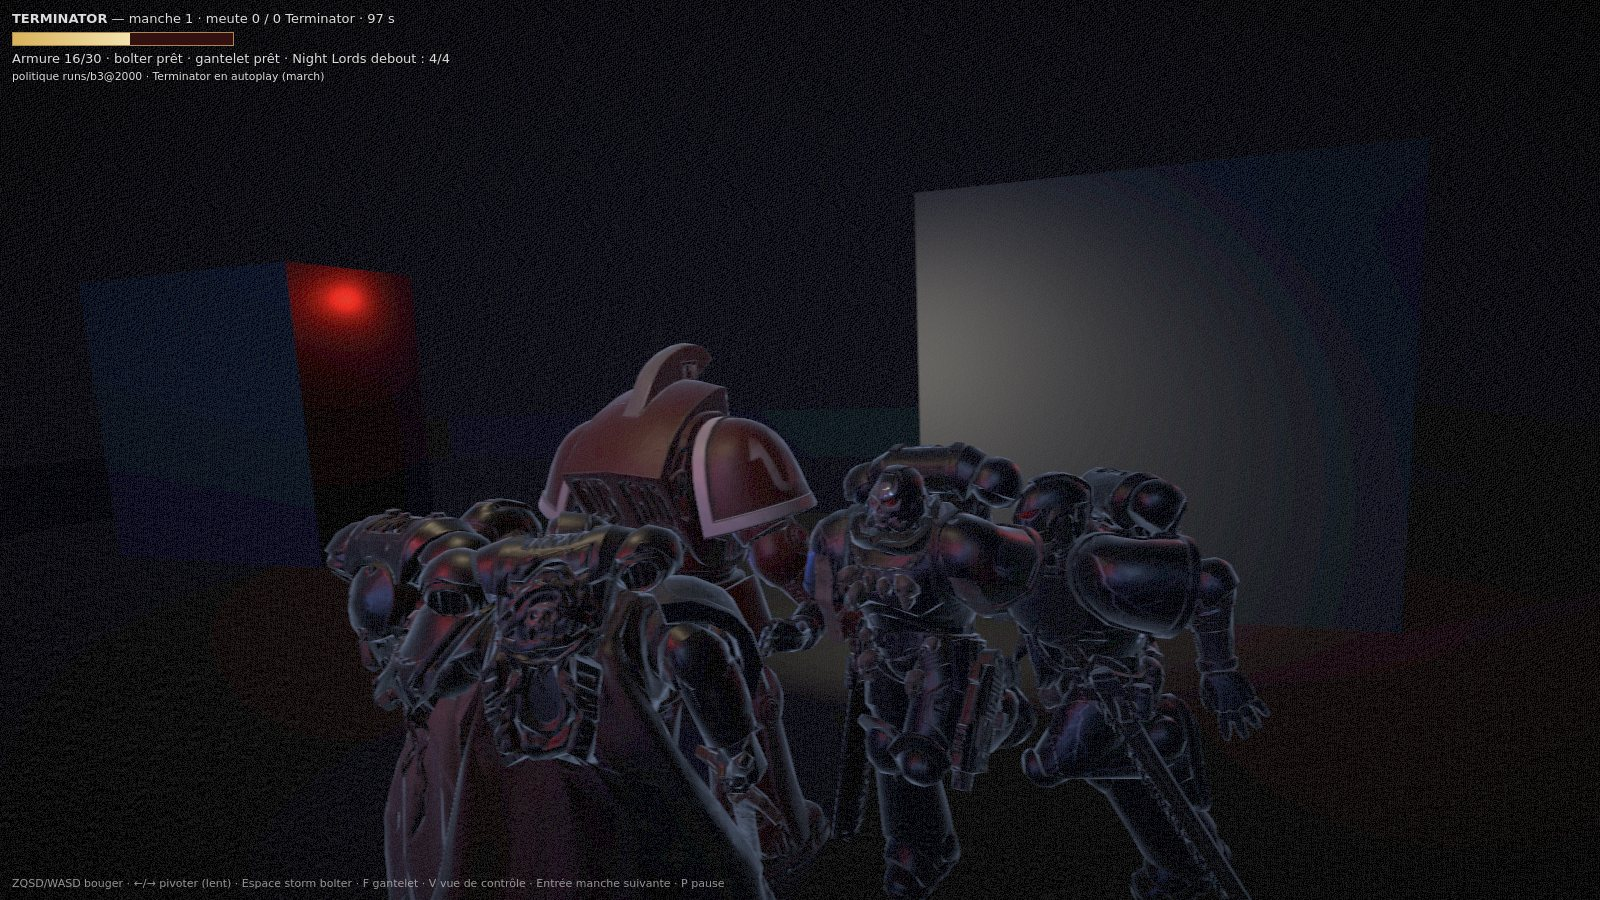
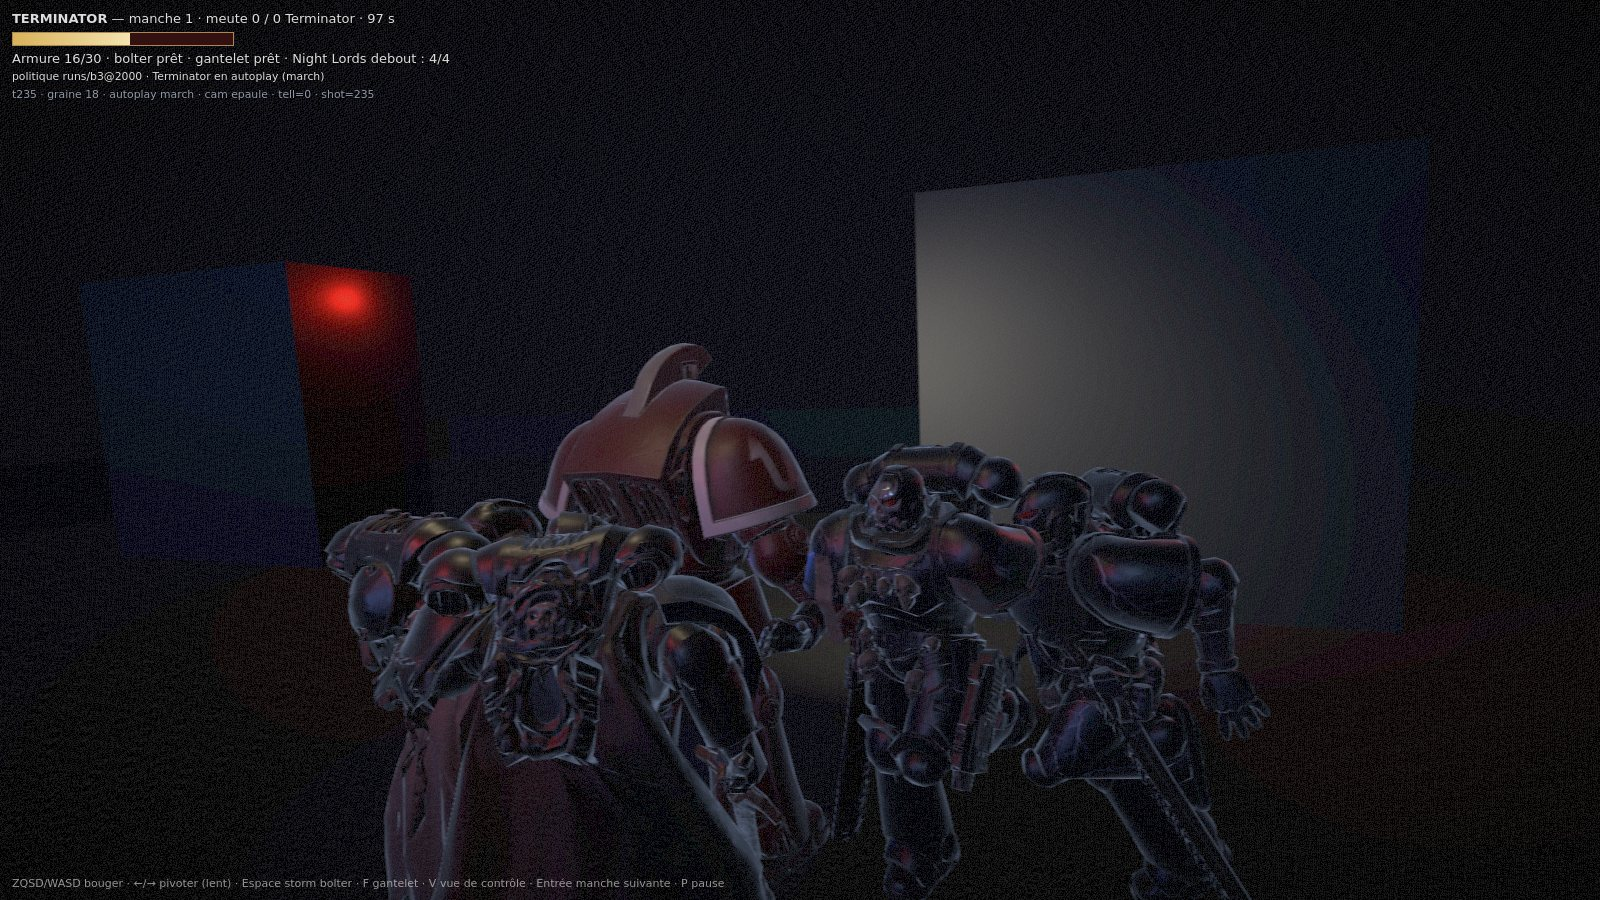
Harnais : le tick, la graine et le mode sont brûlés dans l'image
Une capture dont le tick n'est pas lisible est une affirmation
invérifiable — le même défaut qu'un chiffre sans SHA. La dernière ligne
du HUD écrit t235 · graine 18 · autoplay march · cam epaule · shot=235,
et seulement les drapeaux qui s'écartent du défaut (tell=0, impact=0,
demo).

Ça a servi tout de suite : la planche du télégraphe annonçait « graine
17 » alors que la graine jouée était 18, parce que startRound() incrémente
celle de l'URL. Personne ne l'avait vu en relisant le document.

Les deux planches sont refaites avec ce HUD, et leurs mesures passent au
seuil que le grain ne franchit jamais (> 8/255) : 0,0 % des blocs pour le
grain sur deux répétitions, 3,0-3,5 % pour le télégraphe, 7,4 % pour le
flash. La colonne « max » reste affichée à côté du grain, pour qu'on voie
qu'elle ne sépare rien.

diff --git a/shots/demo2/planche.html b/shots/demo2/planche.html
@@ -1,33 +1,33 @@
 <!doctype html><meta charset="utf-8"><style>
- body{background:#0a0b0f;color:#c9cdd6;font:13.5px/1.5 ui-sans-serif,system-ui;margin:0;padding:20px 24px;width:1760px}
- h1{font:600 17px/1.3 ui-sans-serif;margin:0 0 4px;color:#e8ebf2}
- p.s{margin:0 0 4px;font-size:12.5px;color:#8b93a3}
+ body{background:#0a0b0f;color:#c9cdd6;font:13px/1.5 ui-sans-serif,system-ui;margin:0;padding:18px 22px;width:1780px}
+ h1{font:600 16px/1.3 ui-sans-serif;margin:0 0 4px;color:#e8ebf2}
+ p.s{margin:0 0 3px;font-size:12px;color:#8b93a3}
  .warn{color:#ffb020;font-weight:600}
- .row{display:flex;gap:10px;margin-top:14px}
+ .row{display:flex;gap:9px;margin-top:12px}
  figure{flex:1;margin:0}
  img{width:100%;display:block;border:1px solid #1e2230}
- figcaption{margin-top:6px;font-size:12px;color:#9aa3b4;min-height:52px}
+ figcaption{margin-top:5px;font-size:11.5px;color:#9aa3b4;min-height:56px}
  b{color:#e8ebf2;font-weight:600}
  .k{color:#8bd4a0}
- table{border-collapse:collapse;margin-top:16px;font-size:12px;width:100%}
- td,th{border-bottom:1px solid #1b1f2b;padding:5px 8px;text-align:left}
+ table{border-collapse:collapse;margin-top:14px;font-size:11.5px;width:100%}
+ td,th{border-bottom:1px solid #1b1f2b;padding:4px 7px;text-align:left}
  th{color:#7d8698;font-weight:500}
  td.n{text-align:right;font-variant-numeric:tabular-nums}
  code{color:#9fb0c8}
 </style>
 <h1>Mode démo <code>?demo=reveal</code> — le flash et le télégraphe sur la même image</h1>
-<p class="s"><span class="warn">MISE EN SCÈNE</span> — ce n'est pas une manche jouée, le HUD le dit dans l'image. <code>?shot=14</code>, aucun aléa : mêmes entrées, même image, pas de graine à chercher.</p>
-<p class="s">Le frère du flanc arme sa griffe au tick 13 (<code>armTicks = 2</code>, décidé par la simulation), la rafale part au même tick : à l'image, <code>armTicks = 1</code> et le flash est à 75 % de sa course.</p>
+<p class="s"><span class="warn">MISE EN SCÈNE</span> — ce n'est pas une manche jouée, le HUD le dit dans l'image. <code>?shot=14</code>, aucun aléa : mêmes entrées, même image, pas de graine à chercher. Tick, graine et mode brûlés dans l'image.</p>
+<p class="s">Le frère du flanc arme sa griffe au tick 13 (<code>armTicks = 2</code>, décidé par la simulation), la rafale part au même tick : à l'image <code>armTicks = 1</code> et le flash est à 75 % de sa course.</p>
 <div class="row">
  <figure><img src="rien.jpg"><figcaption><b>Ni flash, ni télégraphe</b> — <code>?tell=0&amp;impact=0</code>. Deux masses noires au contact, la salle est un trou.</figcaption></figure>
- <figure><img src="flash-seul.jpg"><figcaption><b>Flash seul</b> — <code>?tell=0</code>. La rafale peint la salle : sol, pilier, dos du Terminator. 30,1 % des blocs changent, max +70,8/255.</figcaption></figure>
- <figure><img src="tell-seul.jpg"><figcaption><b>Télégraphe seul</b> — <code>?impact=0</code>. Le liseré cerné de rouge : le coup tombe dans 200 ms. 12,5 % des blocs, max +27,6.</figcaption></figure>
- <figure><img src="les-deux.jpg"><figcaption><b>Les deux</b> — la salle s'éclaire <i>et</i> la silhouette se lit <b>contre</b> elle : l'épaule droite au premier plan est cerclée de rouge et sculptée par la lumière de bouche.</figcaption></figure>
+ <figure><img src="flash-seul.jpg"><figcaption><b>Flash seul</b> — la rafale peint la salle : sol, pilier, dos du Terminator.</figcaption></figure>
+ <figure><img src="tell-seul.jpg"><figcaption><b>Télégraphe seul</b> — le liseré cerné de rouge : le coup tombe dans 200 ms.</figcaption></figure>
+ <figure><img src="les-deux.jpg"><figcaption><b>Les deux</b> — la salle s'éclaire <i>et</i> la silhouette se lit <b>contre</b> elle : l'épaule au premier plan est cerclée et sculptée.</figcaption></figure>
 </div>
 <table>
- <tr><th>mesure (blocs de 8 px, image entière)</th><th>flash</th><th>télégraphe</th><th>bruit de grain (même URL deux fois)</th></tr>
- <tr><td>écart moyen</td><td class="n">1,90 /255</td><td class="n">0,63 /255</td><td class="n">0,00 /255</td></tr>
- <tr><td>écart maximal d'un bloc</td><td class="n k">+70,8</td><td class="n k">+27,6</td><td class="n">+6,4</td></tr>
- <tr><td>blocs au-dessus de 2/255</td><td class="n">30,1 %</td><td class="n">12,5 %</td><td class="n">5,5 %</td></tr>
+ <tr><th>blocs de 8 px, image entière</th><th class="n">écart moyen</th><th class="n">blocs &gt; 2</th><th class="n">blocs &gt; 8</th><th class="n">blocs &gt; 16</th><th class="n">max</th></tr>
+ <tr><td>flash</td><td class="n">1,92/255</td><td class="n">30,5 %</td><td class="n k">7,4 %</td><td class="n k">1,2 %</td><td class="n">+70,8</td></tr>
+ <tr><td>télégraphe</td><td class="n">0,63/255</td><td class="n">12,0 %</td><td class="n k">3,5 %</td><td class="n k">0,9 %</td><td class="n">+26,8</td></tr>
+ <tr><td>plancher de grain (même URL deux fois)</td><td class="n">0,00/255</td><td class="n">5,9–6,1 %</td><td class="n">0,0 %</td><td class="n">0,0 %</td><td class="n">+14,1 à +15,5</td></tr>
 </table>
-<p class="s" style="margin-top:10px;color:#7b8798">Les moyennes par région ne sont pas publiées ici : le grain d'une passe plein écran dépend de <code>performance.now()</code> et déplace une moyenne de région de ±1,5/255, soit l'ordre de grandeur du télégraphe. Seuils de blocs uniquement, et plancher de bruit mesuré à côté.</p>
+<p class="s" style="margin-top:9px;color:#7b8798">Le seuil qui compte est <b>&gt; 8</b> : le grain n'y passe jamais. La colonne « max » est là pour être lue à côté du grain — un maximum isolé n'est pas une mesure.</p>

diff --git a/shots/ev2/planche.html b/shots/ev2/planche.html
@@ -1,28 +1,33 @@
 <!doctype html><meta charset="utf-8">
 <style>
- body{background:#0a0b0f;color:#c9cdd6;font:14px/1.5 ui-sans-serif,system-ui;margin:0;padding:22px 26px}
- h1{font:600 17px/1.3 ui-sans-serif;margin:0 0 4px;color:#e8ebf2;letter-spacing:.02em}
- p.s{color:#8b93a3;margin:0 0 18px;font-size:12.5px}
- .row{display:flex;gap:14px}
+ body{background:#0a0b0f;color:#c9cdd6;font:13.5px/1.5 ui-sans-serif,system-ui;margin:0;padding:20px 24px;width:1760px}
+ h1{font:600 17px/1.3 ui-sans-serif;margin:0 0 5px;color:#e8ebf2}
+ p.s{margin:0 0 14px;font-size:12.5px;color:#8b93a3}
+ .row{display:flex;gap:10px}
  figure{flex:1;margin:0}
  img{width:100%;display:block;border:1px solid #1e2230}
- figcaption{margin-top:7px;font-size:12.5px;color:#9aa3b4}
- b{color:#ff4a3d;font-weight:600}
- table{border-collapse:collapse;margin:18px 0 0;font-size:12.5px;width:100%}
+ figcaption{margin-top:6px;font-size:12px;color:#9aa3b4}
+ b{color:#e8ebf2;font-weight:600}
+ .k{color:#8bd4a0}
+ table{border-collapse:collapse;margin-top:16px;font-size:12px;width:100%}
  td,th{border-bottom:1px solid #1b1f2b;padding:5px 8px;text-align:left}
  th{color:#7d8698;font-weight:500}
  td.n{text-align:right;font-variant-numeric:tabular-nums}
- .k{color:#8bd4a0}
+ code{color:#9fb0c8}
+ .note{margin-top:12px;font-size:12px;color:#7b8798}
+ .warn{color:#ffb020;font-weight:600}
 </style>
 <h1>Télégraphe de la griffe, branché sur l'armement de la simulation</h1>
-<p class="s">Graine 17, <code>?autoplay=march</code>, <b>tick 235</b> — Night Lord n°2 à <b>2,26 m</b>, <code>armTicks = 1</code>, deux autres au contact. Caméra à l'épaule. Capture réelle d'une manche jouée : aucune mise en scène.</p>
+<p class="s">Graine <b>18</b> (<code>?seed=17</code>, <code>startRound</code> incrémente), <code>?autoplay=march</code>, <b>tick 235</b> — Night Lord n°2 à <b>2,26 m</b>, <code>armTicks = 1</code>, deux autres au contact. Capture réelle : aucune mise en scène.</p>
+<p class="s">Le tick, la graine et le mode sont <b>brûlés dans l'image</b> (dernière ligne du HUD) : une planche se vérifie sans sa légende.</p>
 <div class="row">
- <figure><img src="off-t235.jpg"><figcaption><code>?tell=0</code> — sans télégraphe. Les trois assaillants sont des masses noires équivalentes.</figcaption></figure>
- <figure><img src="on-t235.jpg"><figcaption>Par défaut — le NL n°2 est cerclé de rouge : le coup tombe dans <b>200 ms</b>. Les deux autres, griffes en recharge, ne disent rien.</figcaption></figure>
+ <figure><img src="off-t235.jpg"><figcaption><b><code>?tell=0</code></b> — sans télégraphe. Les trois assaillants sont des masses noires équivalentes.</figcaption></figure>
+ <figure><img src="on-t235.jpg"><figcaption><b>Par défaut</b> — le NL n°2 est cerclé de rouge : le coup tombe dans <b>200 ms</b>. Les deux autres, griffes en recharge, ne disent rien.</figcaption></figure>
 </div>
 <table>
- <tr><th>mesure</th><th>blocs de 8 px, image entière</th><th>région du NL armé (x 1000–1280, y 430–790)</th></tr>
- <tr><td>écart moyen</td><td class="n">+0,59 /255</td><td class="n k">+4,2 /255</td></tr>
- <tr><td>écart maximal d'un bloc</td><td class="n">+25,2 /255</td><td class="n">max 116 → <span class="k">155</span></td></tr>
- <tr><td>blocs au-dessus de 2/255</td><td class="n">13,5 %</td><td class="n">—</td></tr>
+ <tr><th>blocs de 8 px, image entière</th><th class="n">écart moyen</th><th class="n">blocs &gt; 2</th><th class="n">blocs &gt; 8</th><th class="n">blocs &gt; 16</th><th class="n">max</th></tr>
+ <tr><td>télégraphe (ces deux images)</td><td class="n">+0,59/255</td><td class="n">14,4 %</td><td class="n k">3,0 %</td><td class="n k">0,4 %</td><td class="n">+24,6</td></tr>
+ <tr><td>plancher de grain (même URL deux fois)</td><td class="n">0,00/255</td><td class="n">5,9–6,1 %</td><td class="n">0,0 %</td><td class="n">0,0 %</td><td class="n">+14,1 à +15,5</td></tr>
 </table>
+<p class="note">Le seuil qui compte est <b>&gt; 8</b> : le grain n'y passe jamais, sur deux répétitions. La valeur maximale, elle, ne dit rien — la queue du grain monte à +15, et un maximum isolé n'est pas une mesure.</p>
+<p class="note warn">Correction : la première version de cette planche annonçait « graine 17 ». La graine réellement jouée est 18 — <code>startRound()</code> incrémente celle de l'URL. C'est le brûlage du tick dans l'image qui l'a révélé, pas une relecture.</p>

diff --git a/web/main.ts b/web/main.ts
@@ -432,10 +432,21 @@ async function endRound() {
 async function loadPolicy() {
   try { const j = await fetch('/policy/current.json', { cache: 'no-store' }).then(r => r.ok ? r.json() : null); if (j) { actor = j; policyLabel = `politique ${j.version}`; } } catch { /* naïve */ }
 }
+// Traçabilité brûlée dans l'image : un lecteur doit pouvoir dire, en regardant une capture, quel tick elle
+// montre, sur quelle graine et dans quel mode. Sans ça, chaque planche est une affirmation invérifiable — et
+// c'est le défaut qu'on reproche aux chiffres sans SHA. Seuls les drapeaux qui s'écartent du défaut sont écrits.
+function burnIn() {
+  const parts = [`t${w.tick}`, `graine ${seed}`, autoplay ? `autoplay ${autoplay}` : 'joueur', `cam ${CAM_MODE}`];
+  if (!TELL_ON) parts.push('tell=0');
+  if (!IMPACT) parts.push('impact=0');
+  if (DEMO_CFG) parts.push(`demo ${DEMO}`);
+  if (qs.get('shot')) parts.push(`shot=${qs.get('shot')}`);
+  return parts.join(' · ');
+}
 function hud() {
   const t = w.t; const h = document.getElementById('hud')!;
   h.innerHTML = `${DEMO_CFG ? '<b style="color:#ffb020">MISE EN SCÈNE</b> — ce n\'est pas une manche jouée · ' : ''}<b>TERMINATOR</b> — manche ${roundNo} · meute ${score.pack} / ${score.term} Terminator · ${((MAX_TICKS - w.tick) * DT).toFixed(0)} s<div class="bar"><i style="width:${t.hp / T_CFG.hp * 100}%"></i></div>`
-    + `${t.channel ? `<b style="color:#6f6">Téléportation ${Math.round(t.channel / T_CFG.channel * 100)} %</b> · ` : ''}Armure ${t.hp}/${T_CFG.hp} · bolter ${t.boltCd ? '…' : 'prêt'} · gantelet ${t.fistCd ? '…' : 'prêt'} · Night Lords debout : ${w.nls.filter(n => n.alive).length}/4<br><small>${policyLabel}${autoplay ? ` · Terminator en autoplay (${autoplay})` : ''}</small>`;
+    + `${t.channel ? `<b style="color:#6f6">Téléportation ${Math.round(t.channel / T_CFG.channel * 100)} %</b> · ` : ''}Armure ${t.hp}/${T_CFG.hp} · bolter ${t.boltCd ? '…' : 'prêt'} · gantelet ${t.fistCd ? '…' : 'prêt'} · Night Lords debout : ${w.nls.filter(n => n.alive).length}/4<br><small>${policyLabel}${autoplay ? ` · Terminator en autoplay (${autoplay})` : ''}</small><br><small style="color:#8f98a8">${burnIn()}</small>`;
   const d = document.getElementById('dbg')!; d.style.display = debug ? 'block' : 'none';
   if (debug) d.innerHTML = `<b>Vue de contrôle — ce que perçoit chaque Night Lord</b><table><tr><th>rôle</th><th>état</th><th>voit</th><th>entend</th><th>vox</th><th>âge</th><th>action (p)</th></tr>`
     + w.nls.map((n, i) => `<tr style="color:${ROLE_CSS[i]}"><td>${ROLES[i]}</td><td>${n.alive ? 'debout' : 'mort'}</td><td>${n.alive && n.belief.seen ? '●' : '·'}</td><td>${n.alive && n.belief.heard ? '●' : '·'}</td><td>${n.alive && n.belief.vox ? '●' : '·'}</td><td>${n.alive && n.belief.valid ? (n.belief.age * DT).toFixed(1) + ' s' : '—'}</td><td>${n.alive ? NL_ACTIONS[lastActs[i]] + (actor ? ` (${lastP[i].toFixed(2)})` : '') : ''}</td></tr>`).join('')

diff --git a/web/models/MANIFESTE.md b/web/models/MANIFESTE.md
@@ -198,6 +198,21 @@ simulation) et la rafale part au même tick. À l'image, `armTicks = 1` et le fl
 télégraphe. Une moyenne de région prise sur deux captures est un chiffre de bruit déguisé en mesure. Le
 plancher se mesure à côté, sinon il n'y a pas de mesure.
 
+**Le tick, la graine et le mode sont brûlés dans l'image.** La dernière ligne du HUD écrit `t235 · graine 18 ·
+autoplay march · cam epaule · shot=235`, et seulement les drapeaux qui s'écartent du défaut (`tell=0`,
+`impact=0`, `demo`). Une capture se vérifie alors sans sa légende, ce qui est le minimum : une planche dont le
+tick n'est pas lisible est une affirmation invérifiable, le même défaut qu'un chiffre sans SHA.
+
+Ça a immédiatement servi. La planche du télégraphe annonçait « graine 17 » ; la graine réellement jouée
+était **18**, parce que `startRound()` incrémente celle de l'URL. Personne ne l'avait vu en relisant le
+document — le brûlage l'a montré du premier coup d'œil.
+
+**Au-dessus de quel seuil une différence existe.** Le grain d'une passe plein écran fait bouger 5,9 à 6,1 %
+des blocs de plus de 2/255, et son maximum atteint +14,1 à +15,5 : la colonne « max » ne sépare donc rien.
+Ce qui sépare, c'est un seuil que le grain ne franchit jamais — **> 8/255** : 0,0 % des blocs pour le grain,
+3,0 à 3,5 % pour le télégraphe, 7,4 % pour le flash. Un maximum isolé n'est pas une mesure ; un comptage de
+blocs au-dessus d'un seuil que le bruit ne franchit pas en est une.
+
 **Graine et reproductibilité.** Les captures à `?shot=N` tombent sur le tick N, mais la graine de grain
 de la passe plein écran dépend de `performance.now()` : deux captures du même tick ne sont jamais
 identiques au pixel, l'écart est le grain. Comparer avec `pix.mjs` (histogramme) ou en blocs de 8 px,
